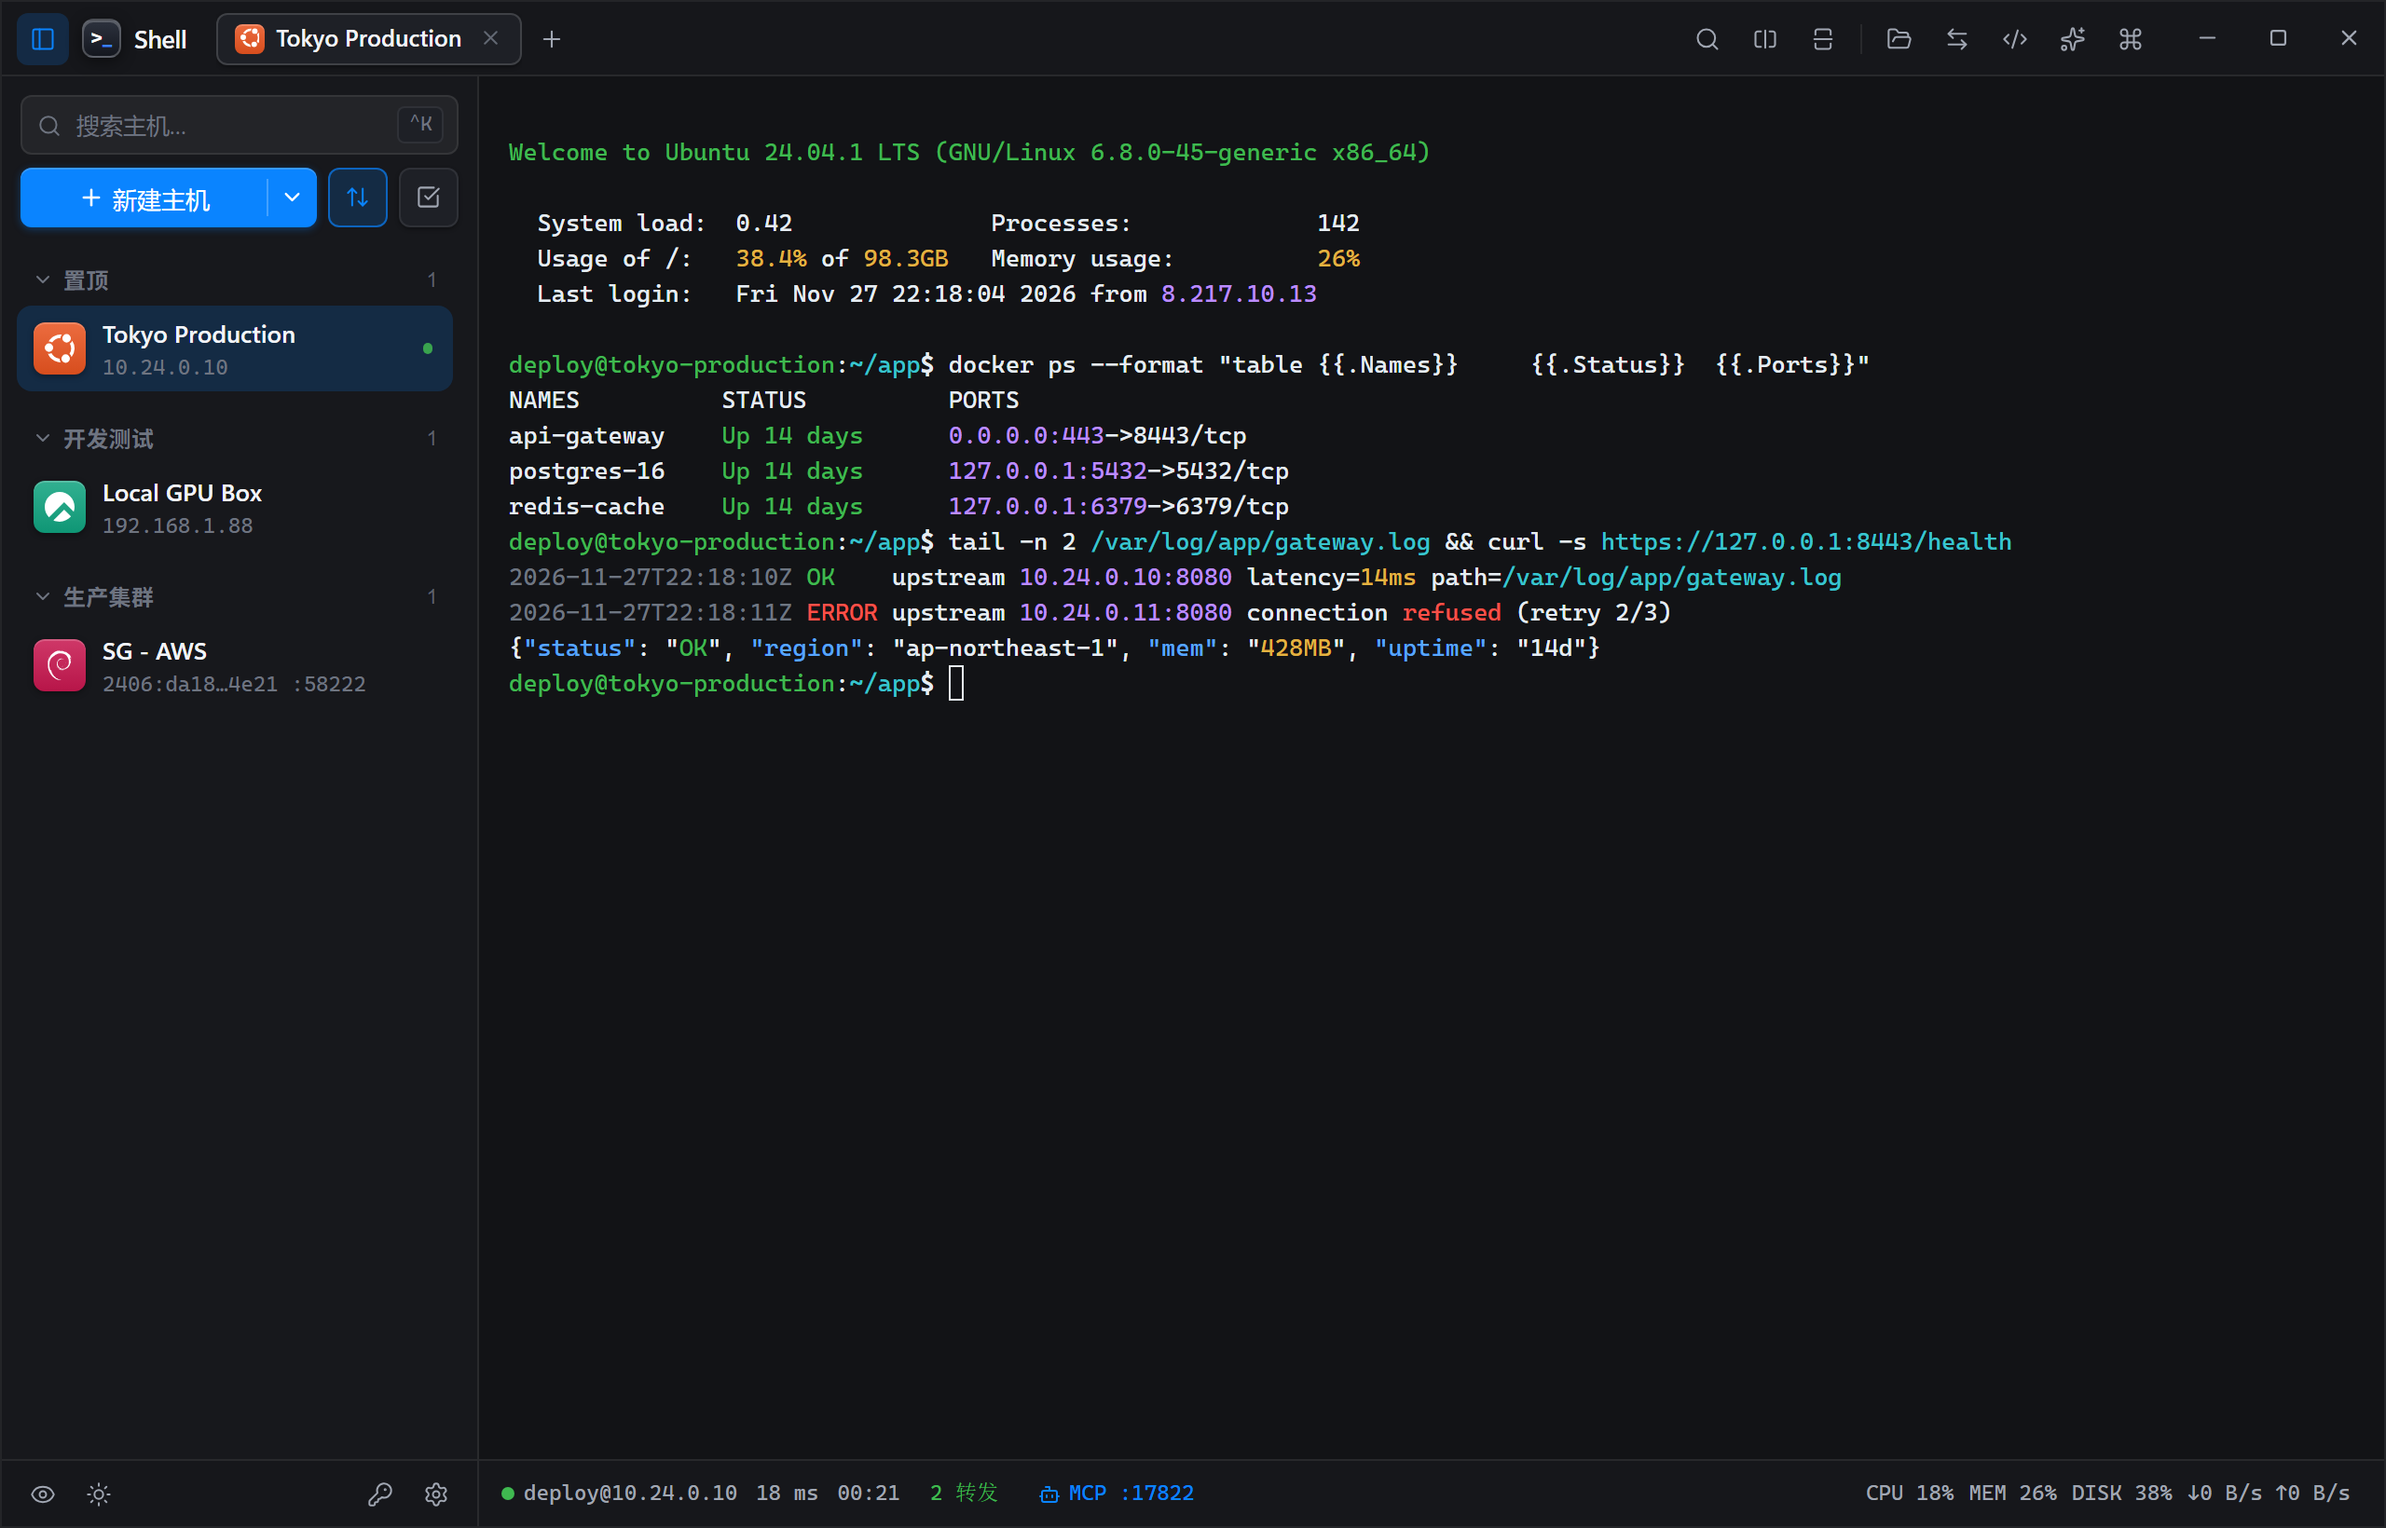
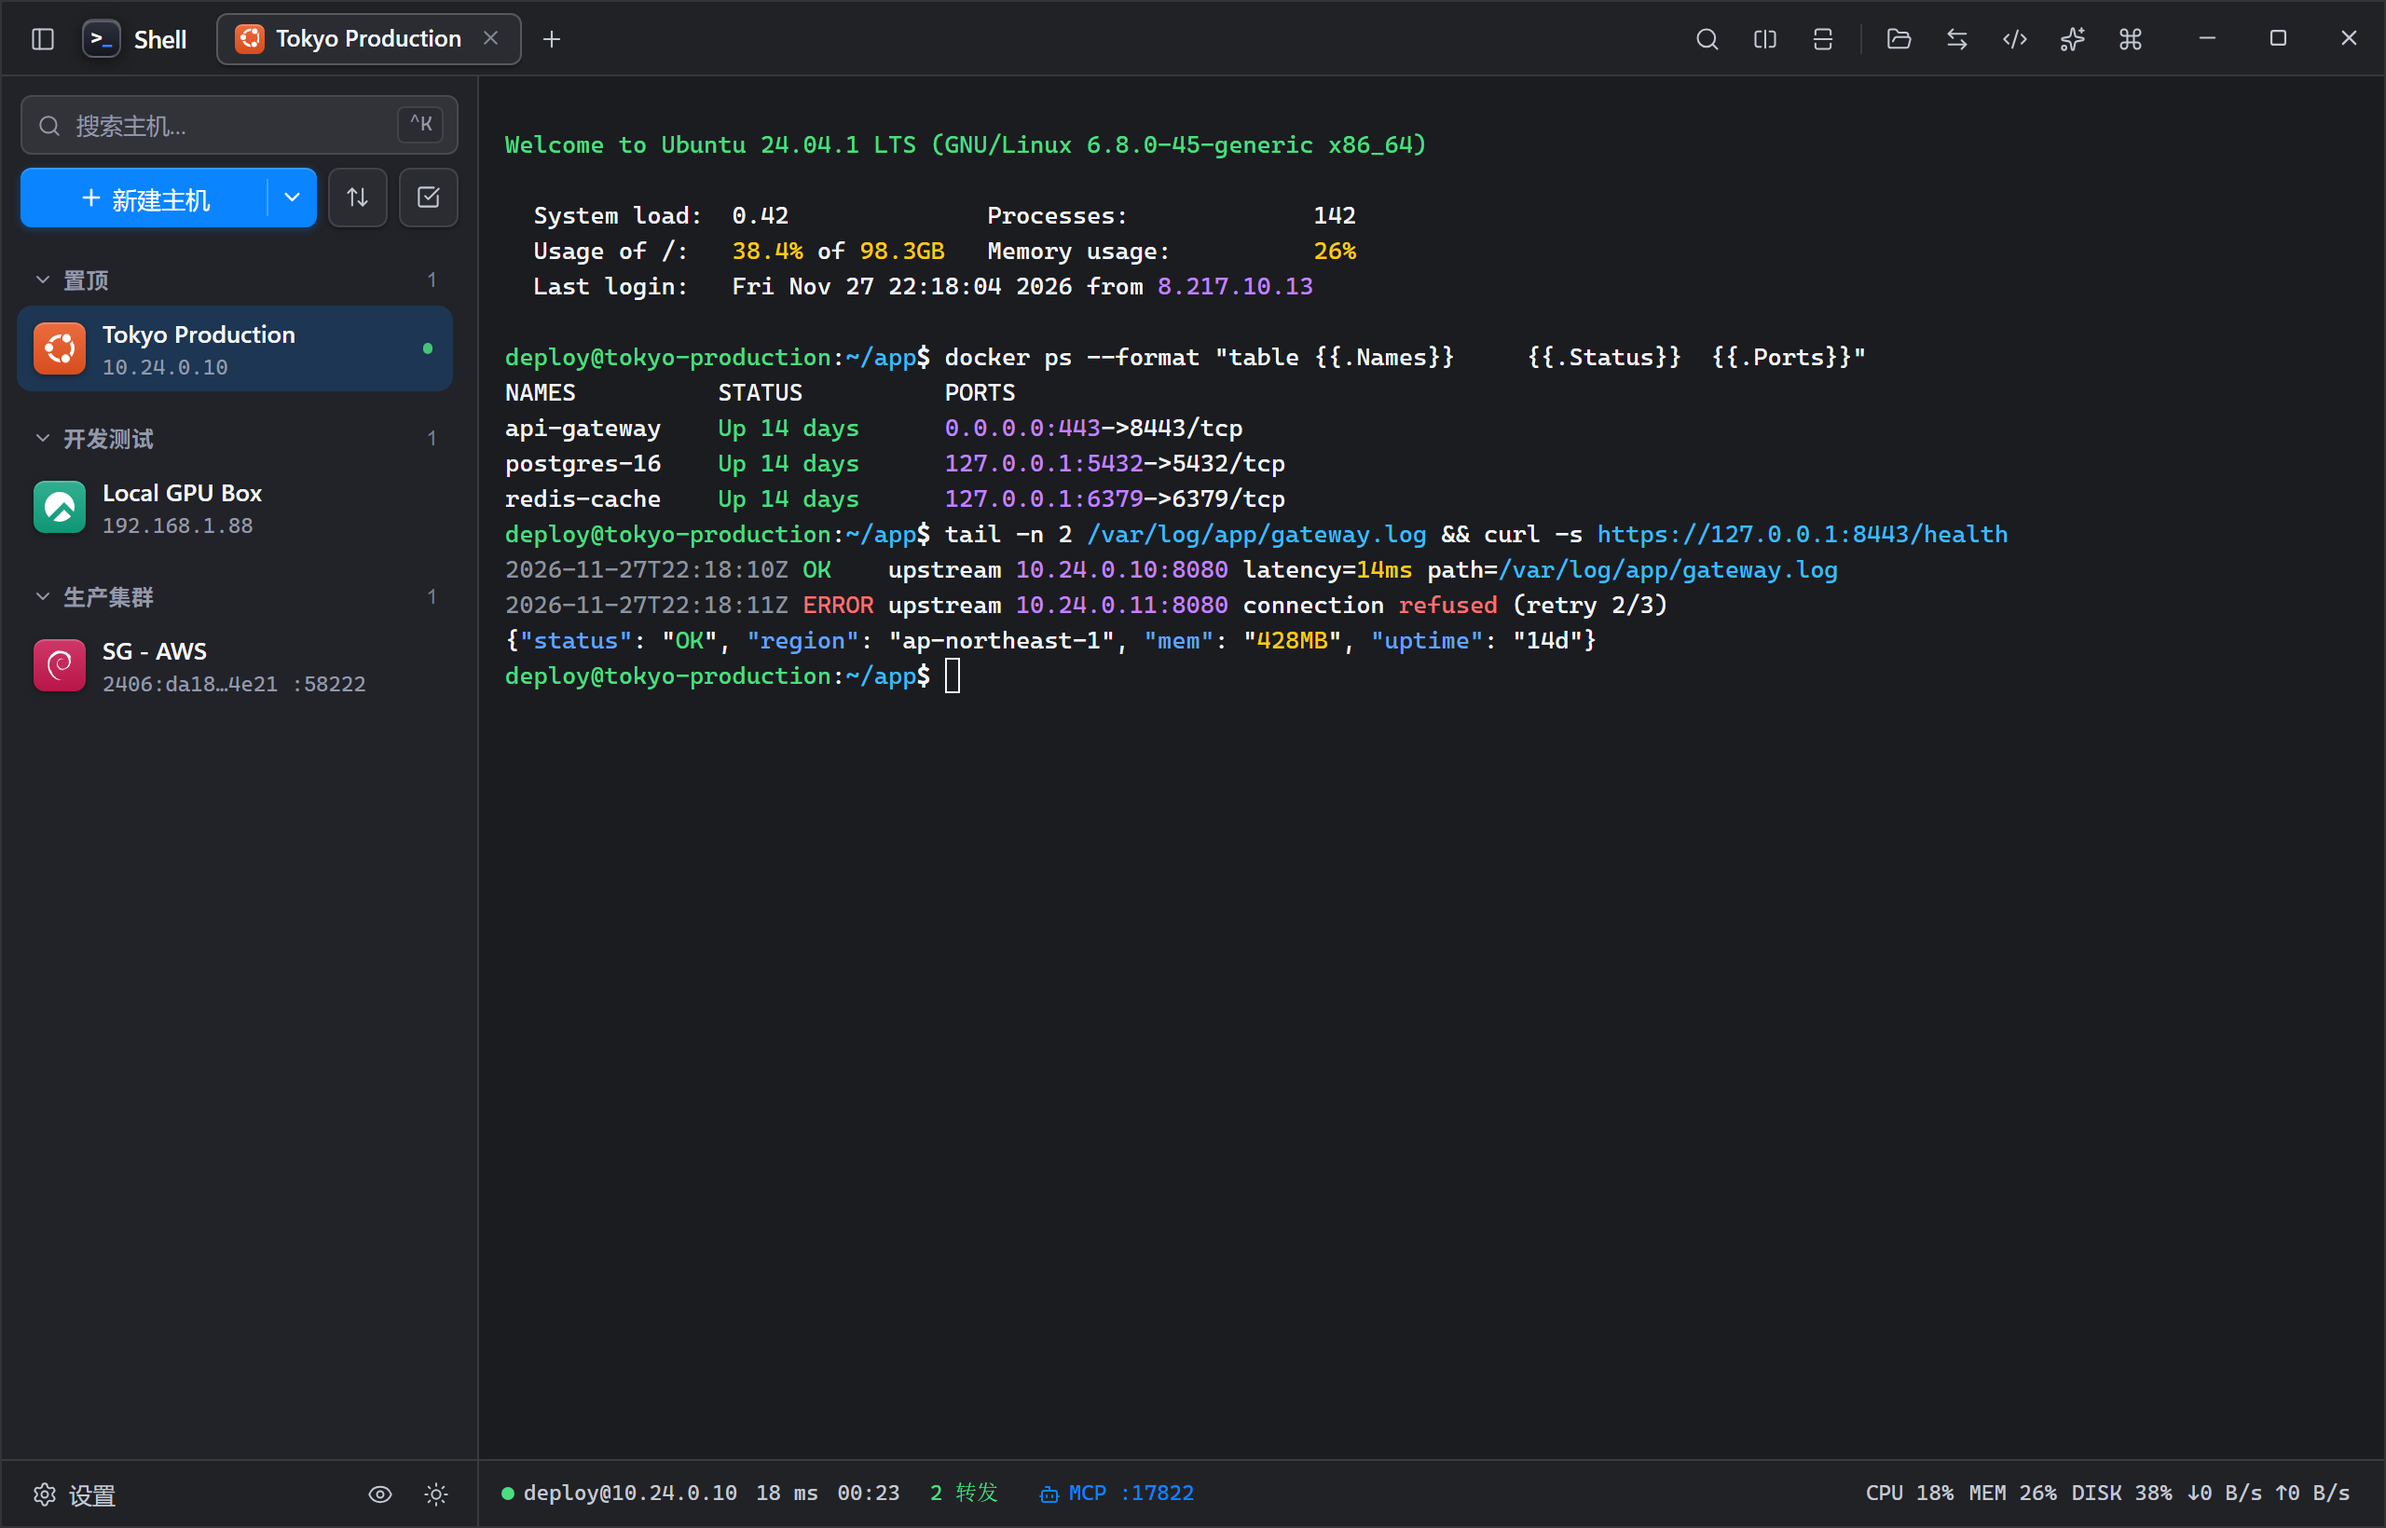
chore(release): 发布 v1.5.8
- 同步升级 frontend/package.json 与 frontend/package-lock.json 版本号至 1.5.8
- 更新 CHANGELOG.md v1.5.8 中文版本变更记录并刷新文档界面预览截图

diff --git a/CHANGELOG.md b/CHANGELOG.md
@@ -2,6 +2,19 @@
 
 本项目的版本变更遵循 [语义化版本 2.0.0](https://semver.org/lang/zh-CN/) 规范。
 
+## [1.5.8] - 2026-11-28
+
+### 核心 SSH 引擎与连接可靠性升级
+- **宽兼容加密协商、证书自动发现与交互式认证**：全面补充现代与老旧设备兼容的加密算法、密钥交换、消息认证与主机密钥算法列表，统一 RFC 4253 客户端标识（`SSH-2.0-Shell_1.5`）；私钥读取支持 `~/` 路径展开、UTF-8 BOM 自动清理及同目录 OpenSSH 证书（`<key>-cert.pub`）自动加载；支持纯密码服务器交互兜底、加密私钥口令弹窗输入及中文 PAM 密码提示自动识别，并为 PTY 请求补充 `IUTF8` 与 `115200` 波特率模式参数。
+- **主机指纹变更可视化恢复**：遭遇服务器重装或主机密钥轮换时，不再仅以静态报错中断，而是弹出「主机指纹已变更」对比窗口，并列展示原有与最新 SHA-256 指纹，用户核对确认后即可原子更新 `known_hosts` 并立即续连（非交互与无头场景保持严格拒绝）。
+- **连接保活、智能退避重连与隧道低延迟优化**：保活探测可快速识别底层传输断连并提供 `Probe` 实时探活能力；终端首次建连前同步计算准确行列尺寸以消除初始尺寸错位；网络波动意外断线后支持指数退避自动重连（`2s / 4s / 8s`，最多 3 次）并在系统恢复联网时自动探活；本地转发（`-L`）与动态 SOCKS5 隧道（`-D`）新增 `TCP_NODELAY` 与 15 秒建连超时控制；新增「终端多行粘贴确认」防误触弹窗，并与「网络波动断线后自动重连」一并开放至「偏好设置 → 连接与指纹」。
+
+### 界面克制化统一与细节打磨
+- **强光高可读性全局配色重校与终端自动对比度保障**：针对明亮环境与强光反射全面重校 5 套全局配色，将默认深色升级为纯中性高可读「曜石深灰（`#1B1C20`）」，同步抬升全部深色方案的表层亮度阶梯与浅色方案的面板层级、边框锐度及次级文字对比度；为 xterm.js 终端启用 `minimumContrastRatio: 4.5` 自动对比度保底，确保任意远端 ANSI 输出在深浅模式下均清晰锐利。
+- **中性克制聚焦框与终端留白校准**：将全站五套全局配色下的输入框、下拉选择器、组合框与复选框聚焦样式收敛为柔和中性描边与微弱光晕（保留品牌色光标），适度收紧终端顶部留白，并将端口转发抽屉的最后一项原生复选框统一替换为自定义复选框组件。
+- **精简底栏布局与去除常驻蓝框**：移除主机排序、隐藏主机 IP 与侧栏折叠按钮上的常驻蓝色高亮框，移除侧边栏底栏冗余密钥入口，将底栏重组为左侧「设置」按钮搭配右侧「隐藏主机 IP / 深浅外观」的均衡布局。
+- **AI 助手快捷示例扩容**：全面扩充 AI 助手「写命令」（10 项）、「查报错」（5 项）与「自动运维」（6 项）三模式的常用运维示例卡片，并统一卡片排版与悬停质感。
+
 ## [1.5.7] - 2026-11-28
 
 ### 全量 CSV 导出与侧边栏交互升级
